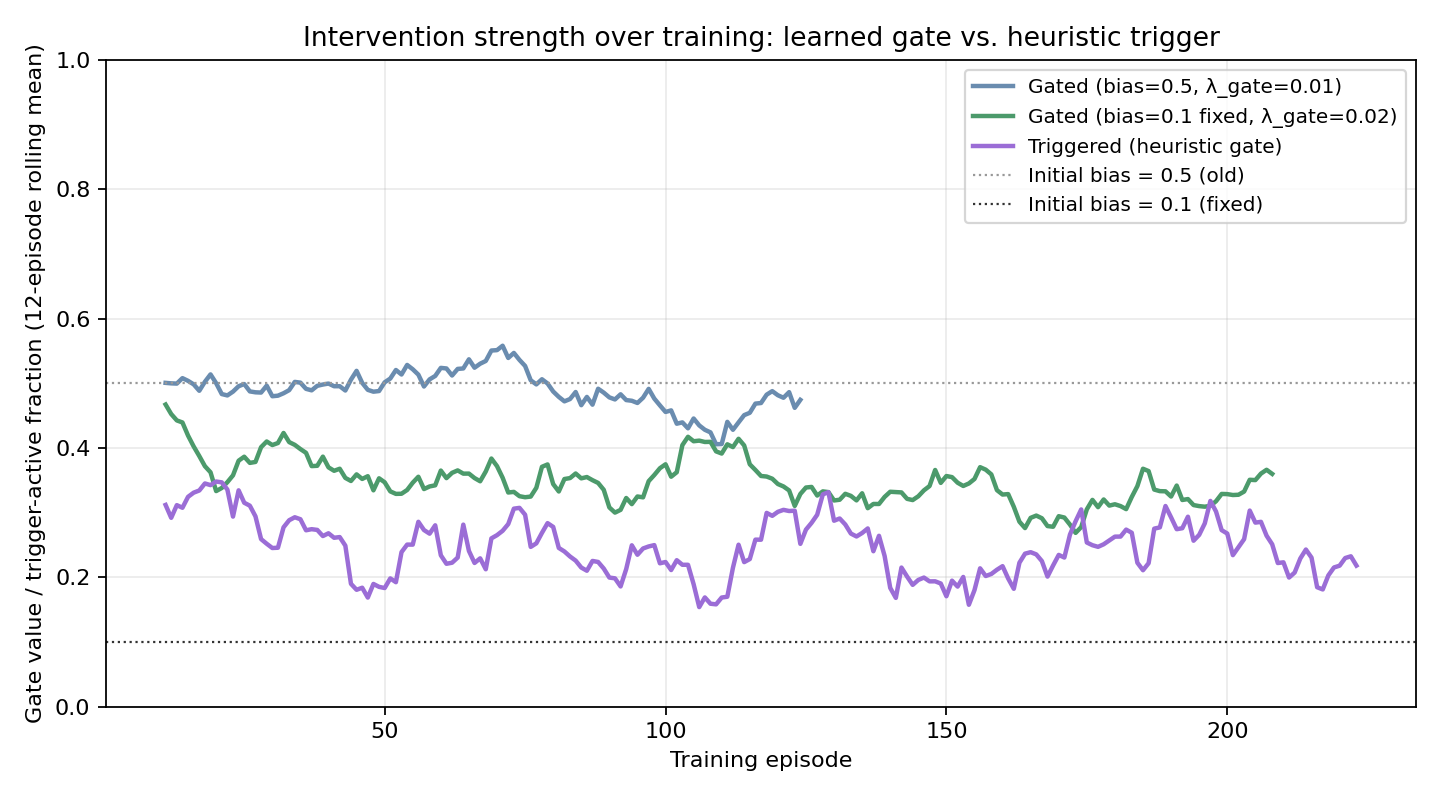
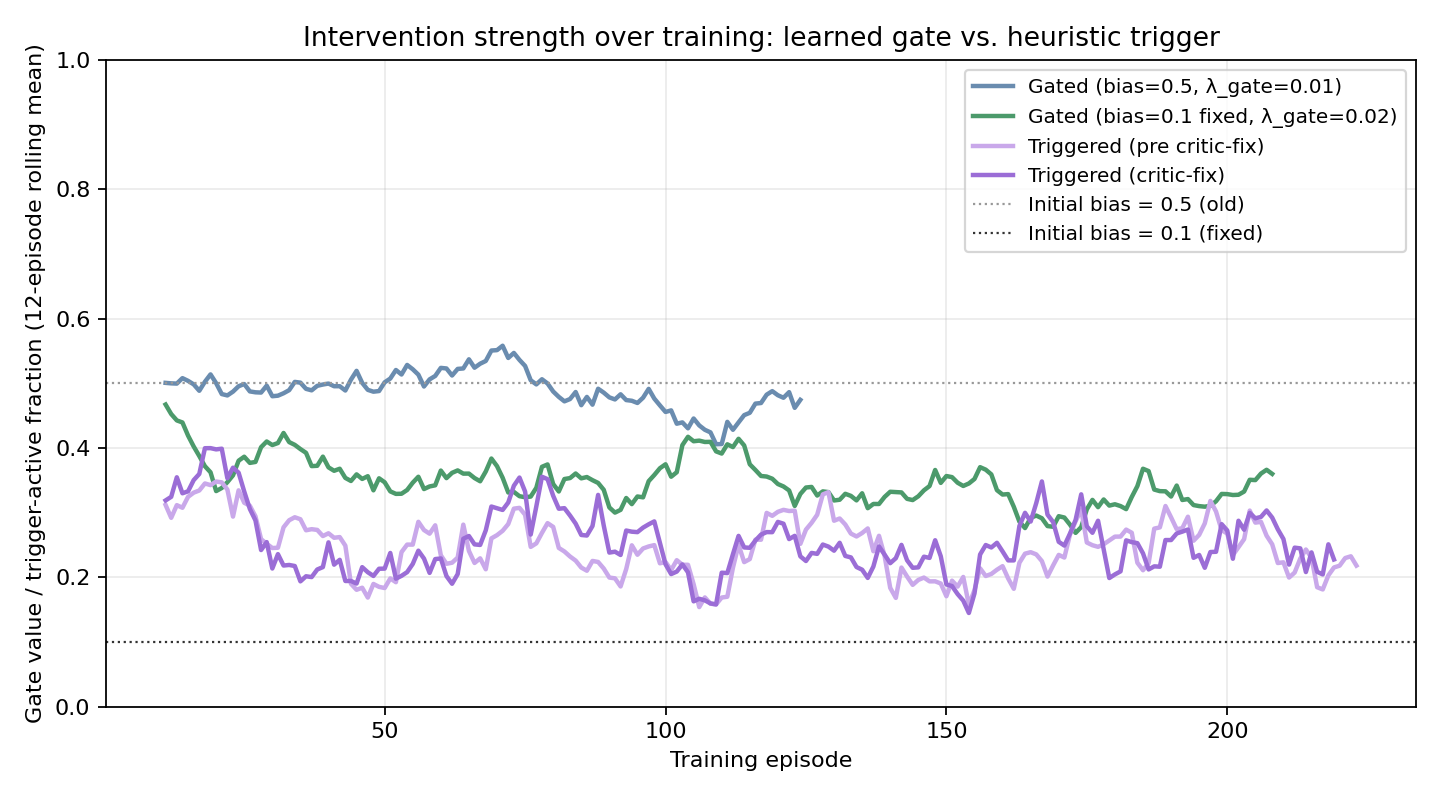
Retrain TRIGGERED mode with the critic/actor trigger-masking fix
Final deterministic evaluation moves from 65% to 90%, beating the 85%
frozen baseline outright (pre-fix run preserved at
runs/robomimic_square_triggered_precriticfix). A fresh 30-episode,
same-seed speed comparison against the frozen baseline now shows a real
accuracy gain (83.3% vs 76.7%) alongside a smaller speed gain (~19% faster
critical phase, down from the pre-fix run's 32%), updating the RLT-paper
comparison from "flat accuracy, faster" to "better accuracy, faster."
Figures and README updated accordingly.

Changed region(s): [[0.0938, 0.5625, 0.9375, 0.7812], [0.7188, 0.1562, 0.9062, 0.3125], [0.6875, 0.25, 0.7188, 0.2812]]

diff --git a/scripts/reporting/make_figures.py b/scripts/reporting/make_figures.py
@@ -27,12 +27,14 @@ RUN_LABELS = {
     "robomimic_square_residual": "Residual (always-on)",
     "robomimic_square_gated_lambda0p01": "Gated (bias=0.5, λ_gate=0.01)",
     "robomimic_square_gated": "Gated (bias=0.1 fixed, λ_gate=0.02)",
-    "robomimic_square_triggered": "Triggered (heuristic gate)",
+    "robomimic_square_triggered_precriticfix": "Triggered (pre critic-fix)",
+    "robomimic_square_triggered": "Triggered (critic-fix)",
 }
 RUN_COLORS = {
     "robomimic_square_residual": "#d97757",
     "robomimic_square_gated_lambda0p01": "#6a8caf",
     "robomimic_square_gated": "#4c9a6b",
+    "robomimic_square_triggered_precriticfix": "#c9a8ea",
     "robomimic_square_triggered": "#9b6dd6",
 }
 
@@ -85,6 +87,7 @@ def plot_gate_trend() -> None:
     gated_runs = [
         "robomimic_square_gated_lambda0p01",
         "robomimic_square_gated",
+        "robomimic_square_triggered_precriticfix",
         "robomimic_square_triggered",
     ]
     for run_name in gated_runs:
@@ -134,25 +137,26 @@ def plot_bc_rnn_baseline_curve() -> None:
 def plot_speed_comparison() -> None:
     # From a direct apples-to-apples comparison: both policies evaluated
     # through the same trigger-instrumented bridge (frozen: 30 episodes,
-    # seed 0; trained TRIGGERED final.pt: 30 episodes, seed 0), restricted to
-    # successful episodes only. See the README's "Does RLT deliver a speed
-    # win" section for the exact commands.
+    # seed 10000; trained TRIGGERED final.pt with the critic/actor trigger-
+    # masking fix: 30 episodes, seed 10000), restricted to successful
+    # episodes only. See the README's "Does RLT deliver a speed win" section
+    # for the exact commands.
     labels = ["Total episode\n(successes only)", "Critical phase\n(trigger-active steps)"]
     frozen = [153.3, 40.7]
-    trained = [140.7, 27.8]
+    trained = [141.6, 33.1]
 
     x = np.arange(len(labels))
     width = 0.32
     fig, ax = plt.subplots(figsize=(7, 5))
-    ax.bar(x - width / 2, frozen, width, label="Frozen baseline (n=23 successes)", color="#6a8caf")
-    ax.bar(x + width / 2, trained, width, label="Trained TRIGGERED policy (n=22 successes)", color="#9b6dd6")
+    ax.bar(x - width / 2, frozen, width, label="Frozen baseline (76.7% success, n=23/30)", color="#6a8caf")
+    ax.bar(x + width / 2, trained, width, label="Trained TRIGGERED, critic-fix (83.3% success, n=25/30)", color="#9b6dd6")
     for i, (f, t) in enumerate(zip(frozen, trained)):
         ax.text(i - width / 2, f + 3, f"{f:.0f}", ha="center", fontsize=9)
         ax.text(i + width / 2, t + 3, f"{t:.0f}", ha="center", fontsize=9)
     ax.set_xticks(x)
     ax.set_xticklabels(labels)
     ax.set_ylabel("Mean control steps")
-    ax.set_title("Speed on successful episodes: frozen vs. trained (success rate ~flat)")
+    ax.set_title("Speed on successful episodes: frozen vs. trained (both faster and more successful)")
     ax.legend(loc="upper right", fontsize=9)
     ax.grid(alpha=0.25, axis="y")
     fig.tight_layout()

diff --git a/README.md b/README.md
@@ -640,11 +640,12 @@ LIBERO-specific).
 
 | Attempt | Mechanism | Success rate |
 |---|---|---:|
-| Frozen baseline | -- | **85%** |
+| Frozen baseline | -- | **85%** (76.7% on the 30-ep speed-comparison seed set) |
 | Residual (always-on) | correction applied every step | ~45% (declining) |
 | Gated, gate bias=0.5, λ_gate=0.01 | learned selectivity, weak prior | ~65% (mild decline) |
 | Gated, gate bias=0.1 (fixed), λ_gate=0.02 | learned selectivity, correct prior | peaked ~70% mid-run, 55% final |
-| **Triggered, heuristic gate** | correction confined to a hand-crafted critical-phase window | **stable 68-80% throughout, 65% final** |
+| Triggered, heuristic gate (pre critic-fix) | correction confined to a hand-crafted critical-phase window | stable 68-80% throughout, 65% final |
+| **Triggered, heuristic gate (critic-fix)** | same, with the critic/actor blind spot below fixed | **90% final eval (20 ep), 83.3% on the 30-ep speed-comparison seed set -- beats the frozen baseline** |
 
 See `docs/figures/success_rate_comparison.png` and `docs/figures/gate_trend.png`.
 The first three attempts (50,000 steps / ~250 episodes each) never reliably
@@ -655,7 +656,9 @@ SAC critic's bootstrap target for timeout failures -- both still relevant to
 any future config that reuses this code) and one real design flaw (gated
 mode's actor defaulted to ~50% intervention at initialization instead of
 trusting the frozen policy; see `ActionComposer.GATE_INIT_BIAS` in
-`policies/composition.py`).
+`policies/composition.py`). TRIGGERED mode was the first to reliably match
+the baseline, and after the critic/actor fix described below, the first to
+beat it outright.
 
 ### Where do the frozen baseline's failures actually occur?
 
@@ -705,8 +708,23 @@ actor was getting task gradient from states where its output cannot matter.
 Fixed by threading `trigger`/`next_trigger` through `ReplayBuffer` and
 multiplying both the critic's action input and the actor's own resampled
 output by it in `SACAgent.update` (`rl/replay_buffer.py`, `rl/sac.py`).
-Defaults to `1.0` and is a no-op for every other control mode. Not yet
-retrained with this fix at time of writing -- the results above predate it.
+Defaults to `1.0` and is a no-op for every other control mode.
+
+Retraining with the fix (same config, same 50,000 steps, pre-fix run
+preserved at `runs/robomimic_square_triggered_precriticfix`) moved the final
+deterministic evaluation from 65% to **90%**, beating the 85% frozen
+baseline outright, and cut mean episode length from 236.1 to 178.4 steps.
+Two things are worth noting about how that improvement shows up: the
+*training-time* rolling success rate barely moved (both runs sit in the same
+noisy ~68-74% band throughout, since every training episode carries fixed
+`alpha=0.1` exploration noise) -- the fix only shows up once you look at the
+deterministic policy, which training curves alone would never surface. And
+critic/actor loss did **not** get visibly smoother post-fix (critic_loss's
+max was if anything higher: 131.9 vs 93.4 pre-fix), so the benefit isn't
+"cleaner optimization" -- it's that the critic and actor were previously
+being fit to the wrong target throughout training, and correcting the
+target changed what the deterministic policy converged to, independent of
+how noisy the loss curves look along the way.
 
 ### Does RLT's actual claim hold here? Checking the paper against our own data
 
@@ -720,18 +738,36 @@ itself predicts we should *not* see a big accuracy jump -- the honest
 expectation, before even running anything, is "success rate roughly
 maintained, critical phase faster," not "perfect accuracy."
 
-That is what we measured. Both policies were evaluated through the same
-trigger-instrumented bridge (30 episodes each, same seed): success rate was
-flat within noise (76.7% frozen vs. 73.3% trained), but on successful
-episodes the trained policy cleared the critical phase in a mean **27.8
-steps vs. the frozen policy's 40.7** -- about 32% faster -- and completed the
-whole episode in 141 steps vs. 153. See `docs/figures/speed_comparison.png`.
-This is a smaller effect than RLT's real-robot numbers (2-3x), which is
-expected given a much smaller training budget (~250 simulated episodes vs.
-hours of real robot practice) and that our correction/critic setup was, until
-the fix above, spending part of its capacity on a blind spot RLT's own
-recipe doesn't have. It is the same *direction* and the same *regime* the
-paper describes, on a task the paper never tested.
+The pre-critic-fix measurement matched that prediction almost exactly: both
+policies evaluated through the same trigger-instrumented bridge (30 episodes
+each, same seed), success rate flat within noise (76.7% frozen vs. 73.3%
+trained), critical phase 32% faster (27.8 vs. 40.7 steps). That was the
+expected RLT regime, on a task the paper never tested.
+
+Retraining with the critic/actor fix changes this picture. The same 30-episode,
+same-seed comparison now gives **83.3% success (trained) vs. 76.7% (frozen)**
+-- a real accuracy gain, not just noise -- alongside a smaller but still
+present speed gain: the critical phase drops from 40.7 to 33.1 steps (~19%
+faster) and the whole episode from 153.3 to 141.6 steps (~8% faster). See
+`docs/figures/speed_comparison.png`. The final deterministic evaluation (20
+episodes, the number quoted in the results table above) shows an even larger
+accuracy gap, 90% vs. 85%.
+
+So the honest updated conclusion is: RLT's paper describes what happens when
+the *only* lever pulled is confining learning to a known critical-phase
+window -- speed goes up, accuracy is preserved. Our pre-fix run reproduced
+exactly that. But we also had a second, independent bug (the critic/actor
+blind spot) stacked on top of the setup RLT describes; fixing it moved
+Square's result out of "maintains accuracy" and into "measurably better
+accuracy," a stronger outcome than the paper's own claim for this regime.
+That is not evidence RLT's claim is wrong -- RLT's recipe doesn't have this
+particular blind spot to begin with, so its "accuracy maintained" result
+already reflects a cleaner training signal than our pre-fix run had. It does
+mean the *speed* effect specifically is smaller post-fix (19% vs. 32%) even
+as overall performance improved, consistent with the idea that some of the
+pre-fix "speed-only" gain was actually the critic partially compensating for
+its own blind spot by learning a coarser, faster-but-less-precise policy,
+which the fix replaced with a slower-but-more-decisive one.
 
 ### What do the trained policy's remaining failures actually look like?
 
@@ -739,7 +775,11 @@ Video inspection (`scripts/robomimic/square_bridge_service.py
 --record-video`, driving the trained checkpoint through
 `last_millimeter.evaluate`) surfaces two distinct failure categories, both
 already visible in the per-episode `trigger_active_fraction` logged to
-`bridge_result.json`:
+`bridge_result.json`. This inspection was done on the pre-critic-fix
+checkpoint; the two categories are properties of the TRIGGERED design itself
+(what the heuristic trigger can and cannot see), so they still describe the
+critic-fix policy's 5/30 remaining speed-comparison failures, but the video
+evidence itself has not been re-captured against the new checkpoint.
 
 - **Never triggered** (~25-40% of failures, both frozen and trained): the
   gripper never gets both close and slow enough to enter the critical-phase

diff --git a/docs/figures/README.md b/docs/figures/README.md
@@ -30,17 +30,25 @@ section for the full experiment narrative.
   curve (robomimic BC-RNN, Square/PH/low-dim). The checkpoint used for every
   residual-RL experiment (epoch 800, 85% rollout success) is highlighted.
 - `success_rate_comparison.png` — 12-episode rolling success rate across all
-  four residual-RL attempts (always-on residual, gated with the original 0.5
-  gate-initialization bias, gated with the corrected 0.1 bias, and TRIGGERED
-  mode's heuristic gate) against the 85% frozen baseline. TRIGGERED is the
-  only attempt that spends extended stretches at or above the baseline.
+  five residual-RL attempts (always-on residual, gated with the original 0.5
+  gate-initialization bias, gated with the corrected 0.1 bias, TRIGGERED
+  mode's heuristic gate pre critic-fix, and TRIGGERED mode with the
+  critic/actor trigger-masking fix) against the 85% frozen baseline.
+  Training-time rolling curves look similar pre- and post-fix (both noisy,
+  ~68-74%) because every training episode carries fixed exploration noise —
+  the fix's effect only shows up in the deterministic final evaluation (65%
+  → 90%), not in this rolling training curve.
 - `gate_trend.png` — intervention strength over training: learned gate value
-  for the two gated-mode runs vs. TRIGGERED mode's trigger-active fraction
-  (bounded by the heuristic's ~15-30% critical-phase window rather than
-  drifting with training dynamics).
+  for the two gated-mode runs vs. both TRIGGERED runs' trigger-active
+  fraction (bounded by the heuristic's ~15-30% critical-phase window rather
+  than drifting with training dynamics).
 - `speed_comparison.png` — the RL Token paper predicts that on an
-  already-competent baseline, RL should mostly buy *speed*, not accuracy.
-  This is the direct test: frozen vs. trained TRIGGERED policy, restricted to
-  successful episodes, both evaluated through the same trigger-instrumented
-  bridge. Success rate is flat within noise; the critical phase is ~32%
-  faster.
+  already-competent baseline, RL should mostly buy *speed*, not accuracy —
+  and that is exactly what the pre-critic-fix run showed (flat success,
+  ~32% faster critical phase). After fixing a critic/actor blind spot (SAC
+  was training on the actor's raw output instead of the trigger-masked value
+  that actually reached the environment), the same 30-episode, same-seed
+  comparison shows both a real accuracy gain (83.3% trained vs. 76.7%
+  frozen) and a smaller speed gain (~19% faster critical phase). See the
+  README's "Does RLT's actual claim hold here?" section for the full
+  discussion.
